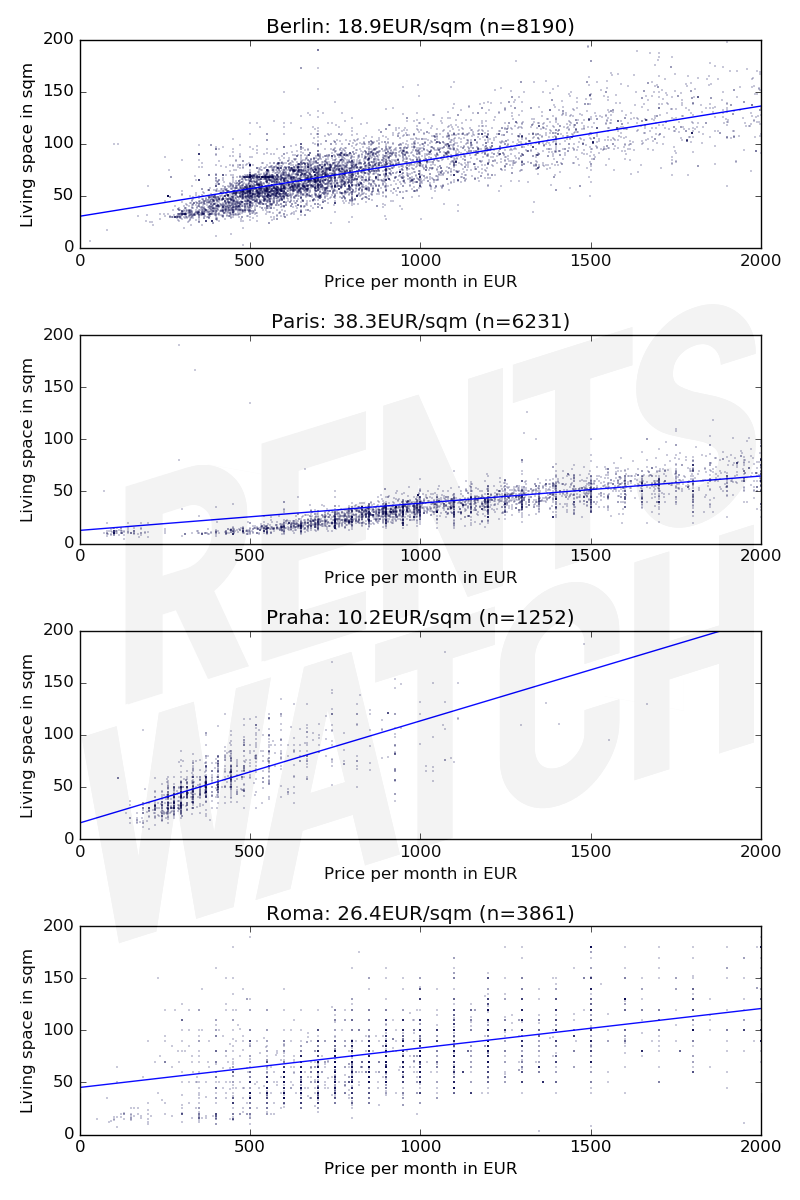
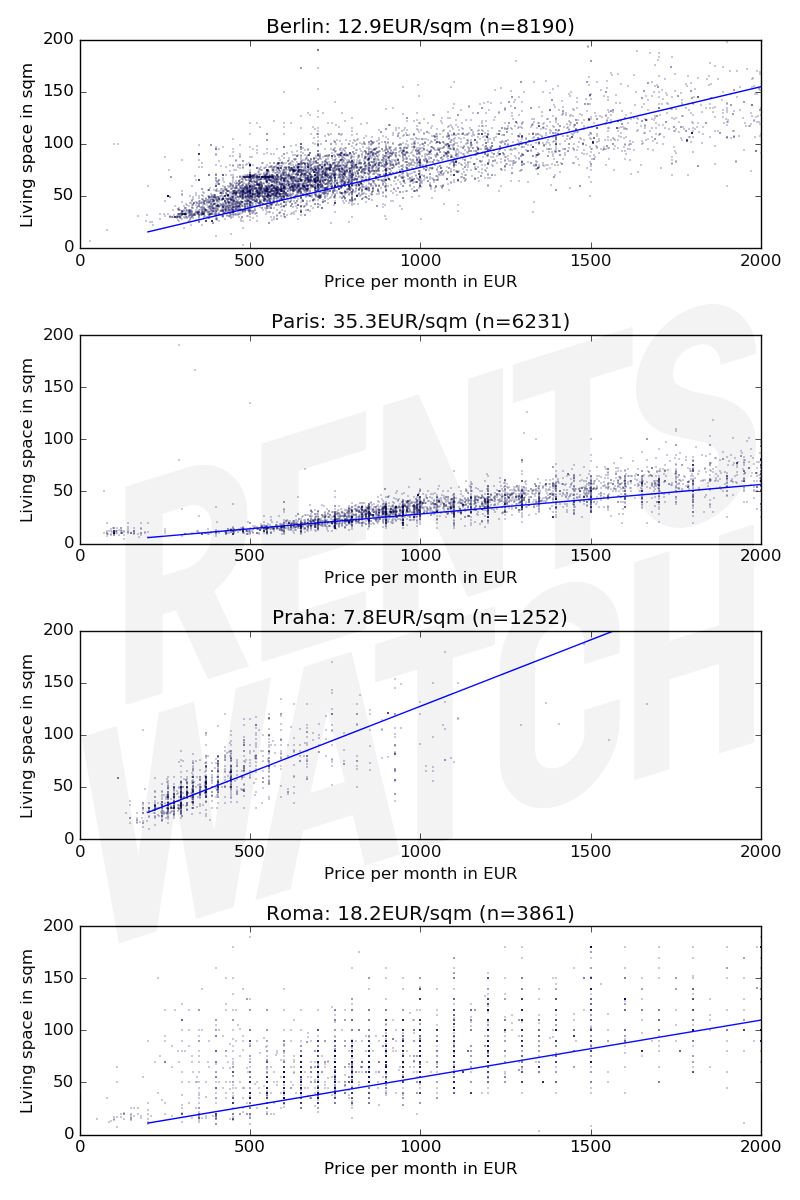
changed model to intercept=0

diff --git a/analyses/price_per_sqm.py b/analyses/price_per_sqm.py
@@ -4,14 +4,14 @@
 import numpy as np
 import csv as csv
 import pandas as pd
-import scipy.stats as sc
+import statsmodels.formula.api as smf
 import matplotlib.pyplot as plt
 import pylab
 from PIL import Image
 
-readdata = csv.reader(open("../data/20151113/ads.csv"))
+readdata = csv.reader(open("data/20151113/ads.csv"))
 
-im = Image.open('../images/logo.png')
+im = Image.open('images/logo.png')
 height = im.size[1]
 
 im = np.array(im).astype(np.float) / 255
@@ -58,6 +58,10 @@ figure = plt.figure(1, figsize=(8, 12), dpi=80)
 
 city_counter = 0
 
+# Prepares the CSV with the data
+
+csv = "city, price_per_sqm_reg, price_per_sqm_avg, slope\n"
+
 for city in cities:
 
 	city_counter += 1
@@ -75,17 +79,32 @@ for city in cities:
 	plt.xlim([0,2000])
 	ax.plot(table_city['total_rent'], table_city['living_space'], 'bo', alpha=.2, ms=1)
 
-	regressionline = sc.stats.linregress(table_city['total_rent'], table_city['living_space'])
+	model = smf.ols(formula='living_space ~ total_rent - 1', data=table_city)
+	results = model.fit()
 
-	m = regressionline[0]
-	b = regressionline[1]
-	x = np.linspace(0, 3000, 100)
+	# Prints the summary to the console
+	print "\n" + city + "\n=============\n"
+	print results.summary()
 
-	price_per_sqm = round(1/m, 1)
+	m = results.params.total_rent
 
-	ax.set_title(city.capitalize() + ": " + str(price_per_sqm) + "EUR/sqm (n=" +  str(len(table_city.index)) + ")")
+	x = np.linspace(200, 3000, 100)
 
-	ax.plot(x, m*x + b)
+	# Computes price per sqm
+	price_per_sqm = str(round(1/m, 1))
+
+	# Appends data to CSV
+	csv += city + ','
+	csv += price_per_sqm + ',' 
+	csv += str(table_city['price_per_sqm'].mean()) + ','
+	csv += str(m)
+	csv +='\n'
+
+	# Writes the title of each subgraph
+	ax.set_title(city.capitalize() + ": " + price_per_sqm + "EUR/sqm (n=" +  str(len(table_city.index)) + ")")
+
+	# Plots the regression line
+	ax.plot(x, m*x)
 
 # Makes layout more legible
 figure.tight_layout()
@@ -95,4 +114,9 @@ img = figure.figimage(im, 0, figure.bbox.ymax - height, alpha=.05)
 img.set_zorder(20)
 
 # Saves image
-pylab.savefig('price_vs_area.png')
+pylab.savefig('analyses/price_vs_area.png')
+
+# Saves CSV
+f = open("analyses/price_per_sqm.csv", "w")
+f.write(csv)
+f.close()
